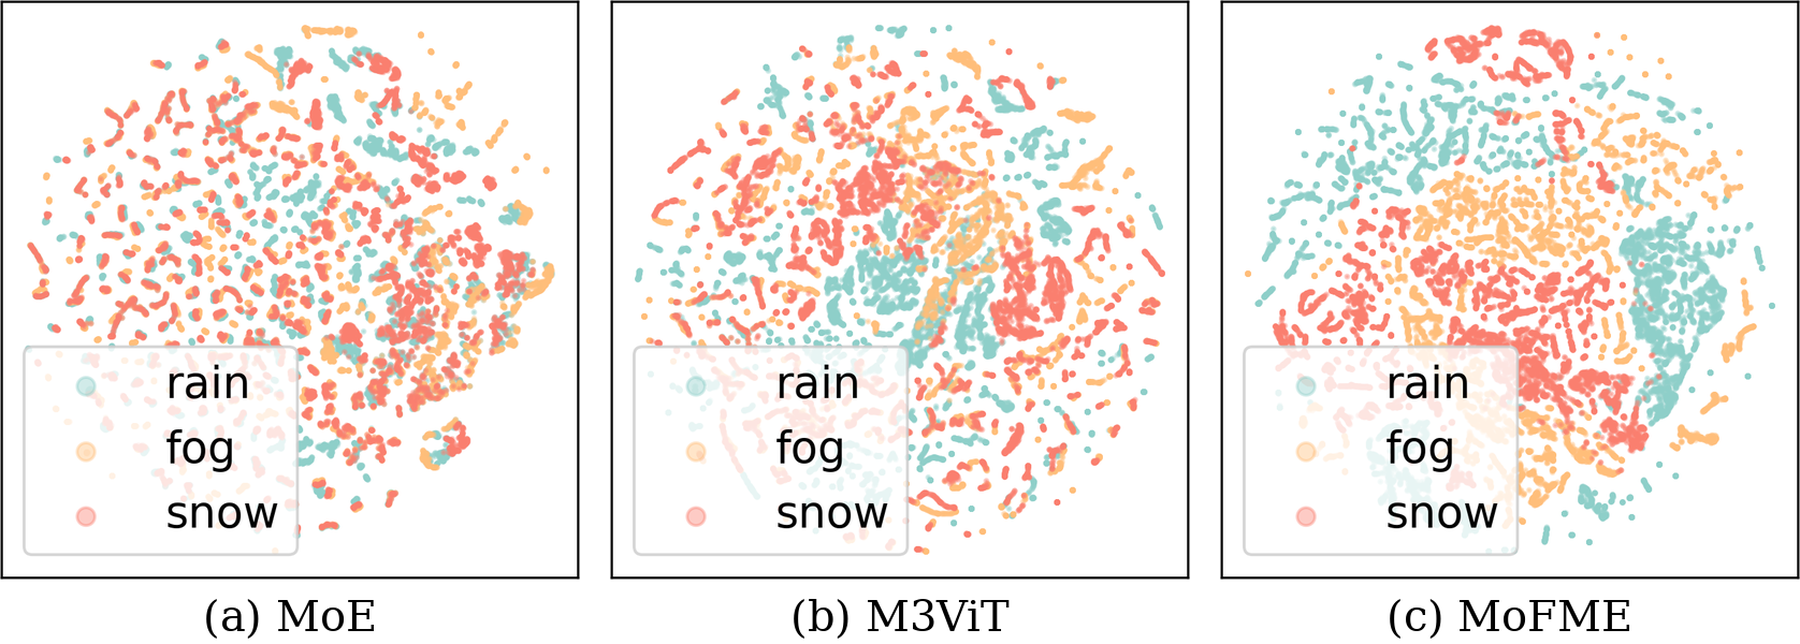
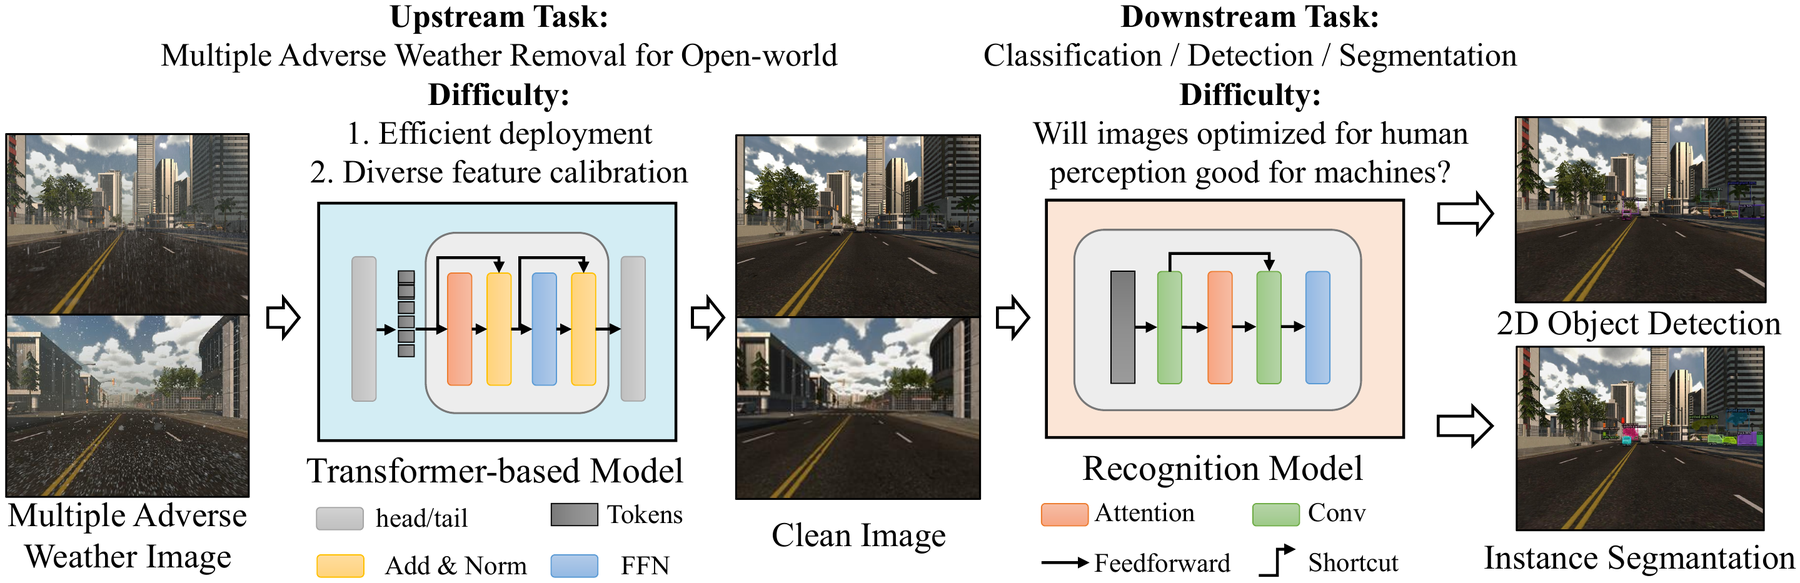
Label publication figures consistently

diff --git a/assets/css/accent-enhancements.css b/assets/css/accent-enhancements.css
@@ -929,6 +929,7 @@ a.profile-contact-item:hover {
   overflow: visible;
   background: transparent;
   display: flex;
+  flex-direction: column;
   align-items: center;
   justify-content: center;
   flex-shrink: 0;
@@ -954,7 +955,6 @@ a.profile-contact-item:hover {
 }
 
 .paper-box-image-duo {
-  flex-direction: column;
   gap: 0.26rem;
 }
 
@@ -971,13 +971,30 @@ a.profile-contact-item:hover {
 
 .paper-image-caption {
   align-self: stretch;
-  margin: -0.02rem 0 0.16rem;
+  margin: 0 0 0.18rem;
   color: #53687f !important;
   font-size: 0.69rem;
   font-weight: 650;
   line-height: 1.28;
   letter-spacing: 0;
-  text-align: left;
+  text-align: center;
+}
+
+.paper-image-caption span {
+  display: inline-block;
+  margin-right: 0.38rem;
+  padding: 0.02rem 0.34rem 0.03rem;
+  border-radius: 999px;
+  background: rgba(1, 47, 99, 0.07);
+  color: #244866;
+  font-size: 0.62rem;
+  font-weight: 800;
+  text-transform: uppercase;
+}
+
+.paper-box-image:not(.paper-box-image-duo) .paper-image-caption {
+  margin-top: 0.42rem;
+  margin-bottom: 0;
 }
 
 .paper-box-image img {

diff --git a/_pages/about.md b/_pages/about.md
@@ -180,11 +180,11 @@ My name is <span class="author-highlight">Yulin Luo</span> (罗峪霖). I'm a Ph
       <a class="paper-image-link" href="images/robobench.png" aria-label="Open full-size RoboBench teaser">
         <img src='images/robobench.png' alt="RoboBench teaser" width="100%">
       </a>
-      <div class="paper-image-caption">Benchmark overview across embodied abilities</div>
+      <div class="paper-image-caption"><span>Teaser</span>Benchmark overview across embodied abilities</div>
       <a class="paper-image-link" href="images/robobench-method.png" aria-label="Open full-size RoboBench construction pipeline">
         <img src='images/robobench-method.png' alt="RoboBench construction pipeline" width="100%">
       </a>
-      <div class="paper-image-caption">Data construction pipeline for robot scenarios</div>
+      <div class="paper-image-caption"><span>Method</span>Data construction pipeline for robot scenarios</div>
     </div>
     <div class='paper-box-text'>
       <h3>RoboBench: A Comprehensive Evaluation Benchmark for MLLMs as Embodied Brain</h3>
@@ -207,11 +207,11 @@ My name is <span class="author-highlight">Yulin Luo</span> (罗峪霖). I'm a Ph
       <a class="paper-image-link" href="images/ssdllm.png" aria-label="Open full-size SSD-LLM teaser">
         <img src='images/ssdllm.png' alt="SSD-LLM teaser" width="100%">
       </a>
-      <div class="paper-image-caption">Workflow for discovering subpopulation structure</div>
+      <div class="paper-image-caption"><span>Teaser</span>Workflow for discovering subpopulation structure</div>
       <a class="paper-image-link" href="images/ssdllm-method.png" aria-label="Open full-size SSD-LLM method diagram">
         <img src='images/ssdllm-method.png' alt="SSD-LLM method diagram" width="100%">
       </a>
-      <div class="paper-image-caption">Caption, criteria generation, refinement, and assignment</div>
+      <div class="paper-image-caption"><span>Method</span>Caption, criteria generation, refinement, and assignment</div>
     </div>
     <div class='paper-box-text'>
       <h3>LLM as Dataset Analyst: Subpopulation Structure Discovery with Large Language Model</h3>
@@ -233,11 +233,11 @@ My name is <span class="author-highlight">Yulin Luo</span> (罗峪霖). I'm a Ph
       <a class="paper-image-link" href="images/moase-teaser.png" aria-label="Open full-size MoASE teaser">
         <img src='images/moase-teaser.png' alt="MoASE teaser" width="100%">
       </a>
-      <div class="paper-image-caption">Sparse activations motivate expert decomposition</div>
+      <div class="paper-image-caption"><span>Teaser</span>Sparse activations motivate expert decomposition</div>
       <a class="paper-image-link" href="images/moase-method.png" aria-label="Open full-size MoASE method diagram">
         <img src='images/moase-method.png' alt="MoASE method diagram" width="100%">
       </a>
-      <div class="paper-image-caption">MoASE routes activation patterns into experts</div>
+      <div class="paper-image-caption"><span>Method</span>MoASE routes activation patterns into experts</div>
     </div>
     <div class='paper-box-text'>
       <h3>Decomposing the Neurons: Activation Sparsity via Mixture of Experts for Continual Test-Time Adaptation</h3>
@@ -258,11 +258,11 @@ My name is <span class="author-highlight">Yulin Luo</span> (罗峪霖). I'm a Ph
       <a class="paper-image-link" href="images/look-before-acting-teaser.png" aria-label="Open full-size Look Before Acting teaser">
         <img src='images/look-before-acting-teaser.png' alt="Look Before Acting teaser" width="100%">
       </a>
-      <div class="paper-image-caption">Vision foundation representations before robot action</div>
+      <div class="paper-image-caption"><span>Teaser</span>Vision foundation representations before robot action</div>
       <a class="paper-image-link" href="images/look-before-acting-method.png" aria-label="Open full-size Look Before Acting method diagram">
         <img src='images/look-before-acting-method.png' alt="Look Before Acting method diagram" width="100%">
       </a>
-      <div class="paper-image-caption">Representation enhancement pipeline for VLA policies</div>
+      <div class="paper-image-caption"><span>Method</span>Representation enhancement pipeline for VLA policies</div>
     </div>
     <div class='paper-box-text'>
       <h3>Look Before Acting: Enhancing Vision Foundation Representations for Vision-Language-Action Models</h3>
@@ -284,11 +284,11 @@ My name is <span class="author-highlight">Yulin Luo</span> (罗峪霖). I'm a Ph
       <a class="paper-image-link" href="images/randstainna.png" aria-label="Open full-size RandStainNA teaser">
         <img src='images/randstainna.png' alt="RandStainNA teaser" width="100%">
       </a>
-      <div class="paper-image-caption">Stain augmentation and normalization are bridged</div>
+      <div class="paper-image-caption"><span>Teaser</span>Stain augmentation and normalization are bridged</div>
       <a class="paper-image-link" href="images/randstainna-method.png" aria-label="Open full-size RandStainNA method diagram">
         <img src='images/randstainna-method.png' alt="RandStainNA method diagram" width="100%">
       </a>
-      <div class="paper-image-caption">Random virtual templates for stain-agnostic training</div>
+      <div class="paper-image-caption"><span>Method</span>Random virtual templates for stain-agnostic training</div>
     </div>
     <div class='paper-box-text'>
       <h3>RandStainNA: Learning Stain-Agnostic Features from Histology Slides by Bridging Stain Augmentation and Normalization</h3>
@@ -309,6 +309,7 @@ My name is <span class="author-highlight">Yulin Luo</span> (罗峪霖). I'm a Ph
       <a class="paper-image-link" href="images/wmmoe-method.png" aria-label="Open full-size WM-MoE method diagram">
         <img src='images/wmmoe-method.png' alt="WM-MoE method diagram" width="100%">
       </a>
+      <div class="paper-image-caption"><span>Method</span>Weather-aware router and multi-scale experts for blind restoration</div>
     </div>
     <div class='paper-box-text'>
       <h3>WM-MoE: Weather-Aware Multi-Scale Mixture-of-Experts for Blind Adverse Weather Removal</h3>
@@ -323,11 +324,16 @@ My name is <span class="author-highlight">Yulin Luo</span> (罗峪霖). I'm a Ph
   </div>
 
   <div id="pub-robomind" class='paper-box floating-card' data-order="20241213877" data-tags="Other, Conference, CCF-B, Embodied AI, Benchmark">
-    <div class='paper-box-image'>
+    <div class='paper-box-image paper-box-image-duo'>
       <div class="badge pulse-accent">RSS 2025</div>
       <a class="paper-image-link" href="images/robomind.png" aria-label="Open full-size RoboMIND teaser">
         <img src='images/robomind.png' alt="RoboMIND teaser" width="100%">
       </a>
+      <div class="paper-image-caption"><span>Teaser</span>Multi-embodiment robot manipulation benchmark</div>
+      <a class="paper-image-link" href="images/robomind-method.png" aria-label="Open full-size RoboMIND annotation process">
+        <img src='images/robomind-method.png' alt="RoboMIND annotation process" width="100%">
+      </a>
+      <div class="paper-image-caption"><span>Method</span>Language-guided task process and annotation examples</div>
     </div>
     <div class='paper-box-text'>
       <h3>RoboMIND: Benchmark on Multi-Embodiment Intelligence Normative Data for Robot Manipulation</h3>
@@ -352,6 +358,7 @@ My name is <span class="author-highlight">Yulin Luo</span> (罗峪霖). I'm a Ph
       <a class="paper-image-link" href="images/drawandunderstand-teaser.jpg" aria-label="Open full-size Draw-and-Understand teaser">
         <img src='images/drawandunderstand-teaser.jpg' alt="Draw-and-Understand teaser" width="100%">
       </a>
+      <div class="paper-image-caption"><span>Teaser</span>Visual prompts teach MLLMs to understand user intent</div>
     </div>
     <div class='paper-box-text'>
       <h3>Draw-and-Understand: Leveraging Visual Prompts to Enable MLLMs to Comprehend What You Want</h3>
@@ -375,6 +382,7 @@ My name is <span class="author-highlight">Yulin Luo</span> (罗峪霖). I'm a Ph
       <a class="paper-image-link" href="images/seear1.png" aria-label="Open full-size SEEA-R1 teaser">
         <img src='images/seear1.png' alt="SEEA-R1 teaser" width="100%">
       </a>
+      <div class="paper-image-caption"><span>Teaser</span>Tree-structured reinforcement fine-tuning for embodied agents</div>
     </div>
     <div class='paper-box-text'>
       <h3>SEEA-R1: Tree-Structured Reinforcement Fine-Tuning for Self-Evolving Embodied Agents</h3>
@@ -396,11 +404,11 @@ My name is <span class="author-highlight">Yulin Luo</span> (罗峪霖). I'm a Ph
       <a class="paper-image-link" href="images/mofme.png" aria-label="Open full-size MoFME teaser">
         <img src='images/mofme.png' alt="MoFME teaser" width="100%">
       </a>
-      <div class="paper-image-caption">Router embeddings separate adverse weather inputs</div>
+      <div class="paper-image-caption"><span>Teaser</span>Deweathering pipeline for downstream perception</div>
       <a class="paper-image-link" href="images/mofme-method.png" aria-label="Open full-size MoFME method diagram">
         <img src='images/mofme-method.png' alt="MoFME method diagram" width="100%">
       </a>
-      <div class="paper-image-caption">Feature modulation experts with uncertainty-aware routing</div>
+      <div class="paper-image-caption"><span>Method</span>Feature modulation experts with uncertainty-aware routing</div>
     </div>
     <div class='paper-box-text'>
       <h3>Efficient Deweather Mixture-of-Experts with Uncertainty-Aware Feature-Wise Linear Modulation</h3>